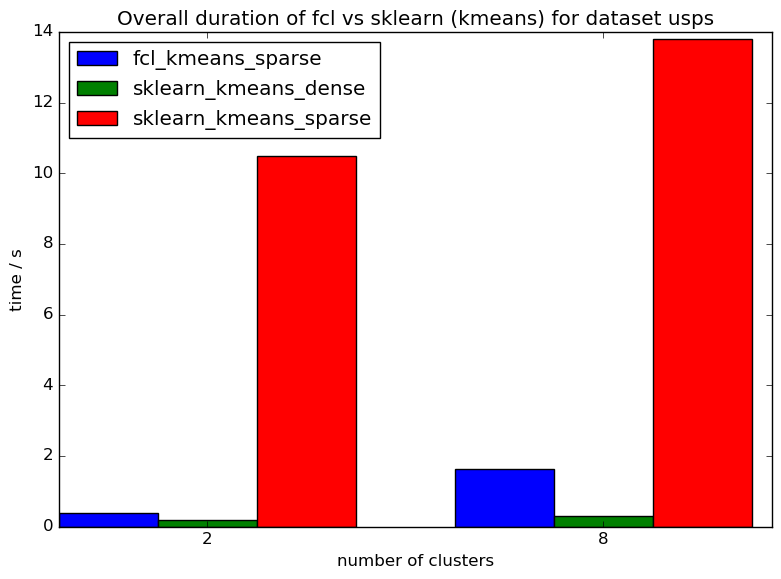
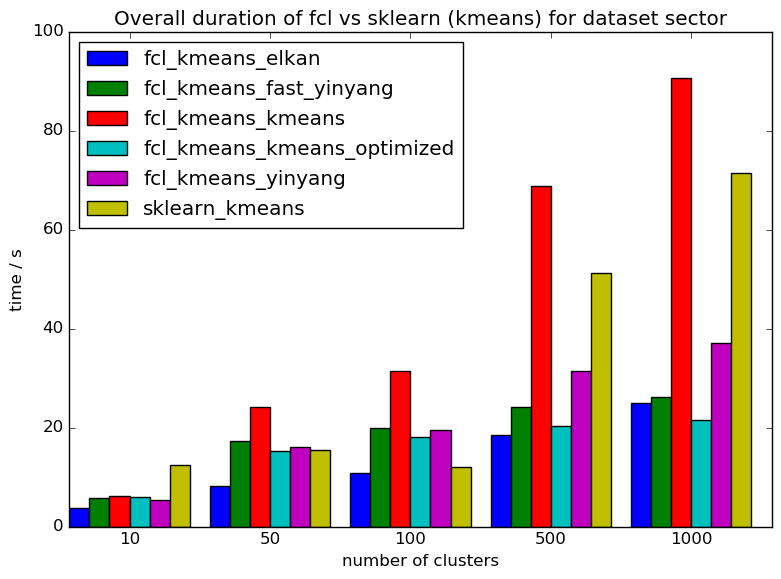
modified speed comparison

diff --git a/examples/python/kmeans/plotting/algorithm_speed_comparison_sklearn.py b/examples/python/kmeans/plotting/algorithm_speed_comparison_sklearn.py
@@ -1,3 +1,10 @@
+# This example creates a comparison between k-means algorithms implementend in fcl
+# and the k-means algorithm implemented in scikit-learn.
+# The comparison contains optimized and unoptimized version of k-means.
+# All comparisons are done with sparse input data. In scikit-learn only the
+# traditional k-means algorithm is available for clustering while more sophisticated
+# algorithms like 'elkan' do not work yet with sparse data.
+
 from __future__ import print_function
 import fcl
 import os
@@ -24,30 +31,46 @@ def do_evaluations(dataset_path, dataset_name):
   # Convert data to numpy array
   data_as_numpy = data_as_csrmatrix.to_numpy()
   
-  # Convert data to a dense format 
-  data_as_numpy_dense = data_as_numpy.toarray()
+  # sklearn 
+  # - uses dense vectors to store the cluster centers. this makes the calculation of the distance between
+  #   sparse samples and dense clusters very fast. However if the input data has very large dimensions, storing
+  #   dense cluster centers gets very costly.
+  #
+  # fcl
+  # - uses sparse vectors everywhere. Calculating distances between a sparse center and a sparse sample is a lot more expensive
+  #   then using a dense center. However it is possible to cluster very high dimensional data into many clusters on a regular
+  #   while keeping the memory usage very low.
+  algorithm_results = {}
   
-  algorithm_results = {'fcl_kmeans_sparse': {}, 'sklearn_kmeans_sparse': {}, 'sklearn_kmeans_dense': {}}
+  # These values generate the official repository plot.
+  #algorithms = ["elkan", "kmeans_optimized", "yinyang", "fast_yinyang", "kmeans"]
+  #clusters = [10, 50, 100, 500, 1000]
   
+  # These values are used in order to allow the tests to be more efficient
+  algorithms = ["kmeans"]
   clusters = [2, 8]
+  
   for no_clusters in clusters:
-    print("evaluating: fcl kmeans (sparse matrix) with k=%d and dataset %s"%(no_clusters, dataset_name))
-    dur = timeit(kmeans.KMeans(n_jobs=1, no_clusters=no_clusters, algorithm='kmeans', init='random', seed = 1, verbose = False)
-           , data_as_csrmatrix)
-    algorithm_results['fcl_kmeans_sparse'][no_clusters] = dur
+    for algorithm in algorithms:
+      algorithm_name = "fcl_kmeans_" + algorithm
+      if not algorithm_name in algorithm_results:
+        algorithm_results[algorithm_name] = {}
+      print("evaluating: fcl kmeans (%s) with k=%d and dataset %s"%(algorithm, no_clusters, dataset_name))
+      dur = timeit(kmeans.KMeans(n_jobs=1, no_clusters=no_clusters, algorithm=algorithm, init='random', seed = 1, verbose = False)
+             , data_as_csrmatrix)
+      algorithm_results[algorithm_name][no_clusters] = dur
+    
+    algorithm_name = "sklearn_kmeans"
+    if not algorithm_name in algorithm_results:
+      algorithm_results[algorithm_name] = {}
     
     # Evaluating the speed of scikit-learn when clustering a sparse matrix
     print("evaluating: sklearn kmeans (sparse matrix) with k=%d and dataset %s"%(no_clusters, dataset_name))
     dur = timeit(sklearn.cluster.KMeans(n_init = 1, n_jobs=1, n_clusters=no_clusters, algorithm='full', init='random', random_state=1)
                , data_as_numpy)
-    algorithm_results['sklearn_kmeans_sparse'][no_clusters] = dur
+    algorithm_results[algorithm_name][no_clusters] = dur
     
-    # Evaluating the speed of scikit-learn when clustering a dense matrix
-    print("evaluating: sklearn kmeans (dense matrix) with k=%d and dataset %s"%(no_clusters, dataset_name))
-    dur = timeit(sklearn.cluster.KMeans(n_init = 1, n_jobs=1, n_clusters=no_clusters, algorithm='full', init='random', random_state=1)
-               , data_as_numpy_dense)
-    algorithm_results['sklearn_kmeans_dense'][no_clusters] = dur
-    
+
   # plot the results
   plot_sklearn_comparison(algorithm_results, dataset_name)
 
@@ -107,4 +130,4 @@ def plot_sklearn_comparison(algorithm_results, dataset_name):
 
 if __name__ == "__main__":
   ds_folder = abspath(join(dirname( __file__ ), os.pardir, os.pardir, os.pardir, 'datasets'))
-  do_evaluations(load_usps_dataset(ds_folder), 'usps')
+  do_evaluations(load_sector_dataset(ds_folder), 'sector')
